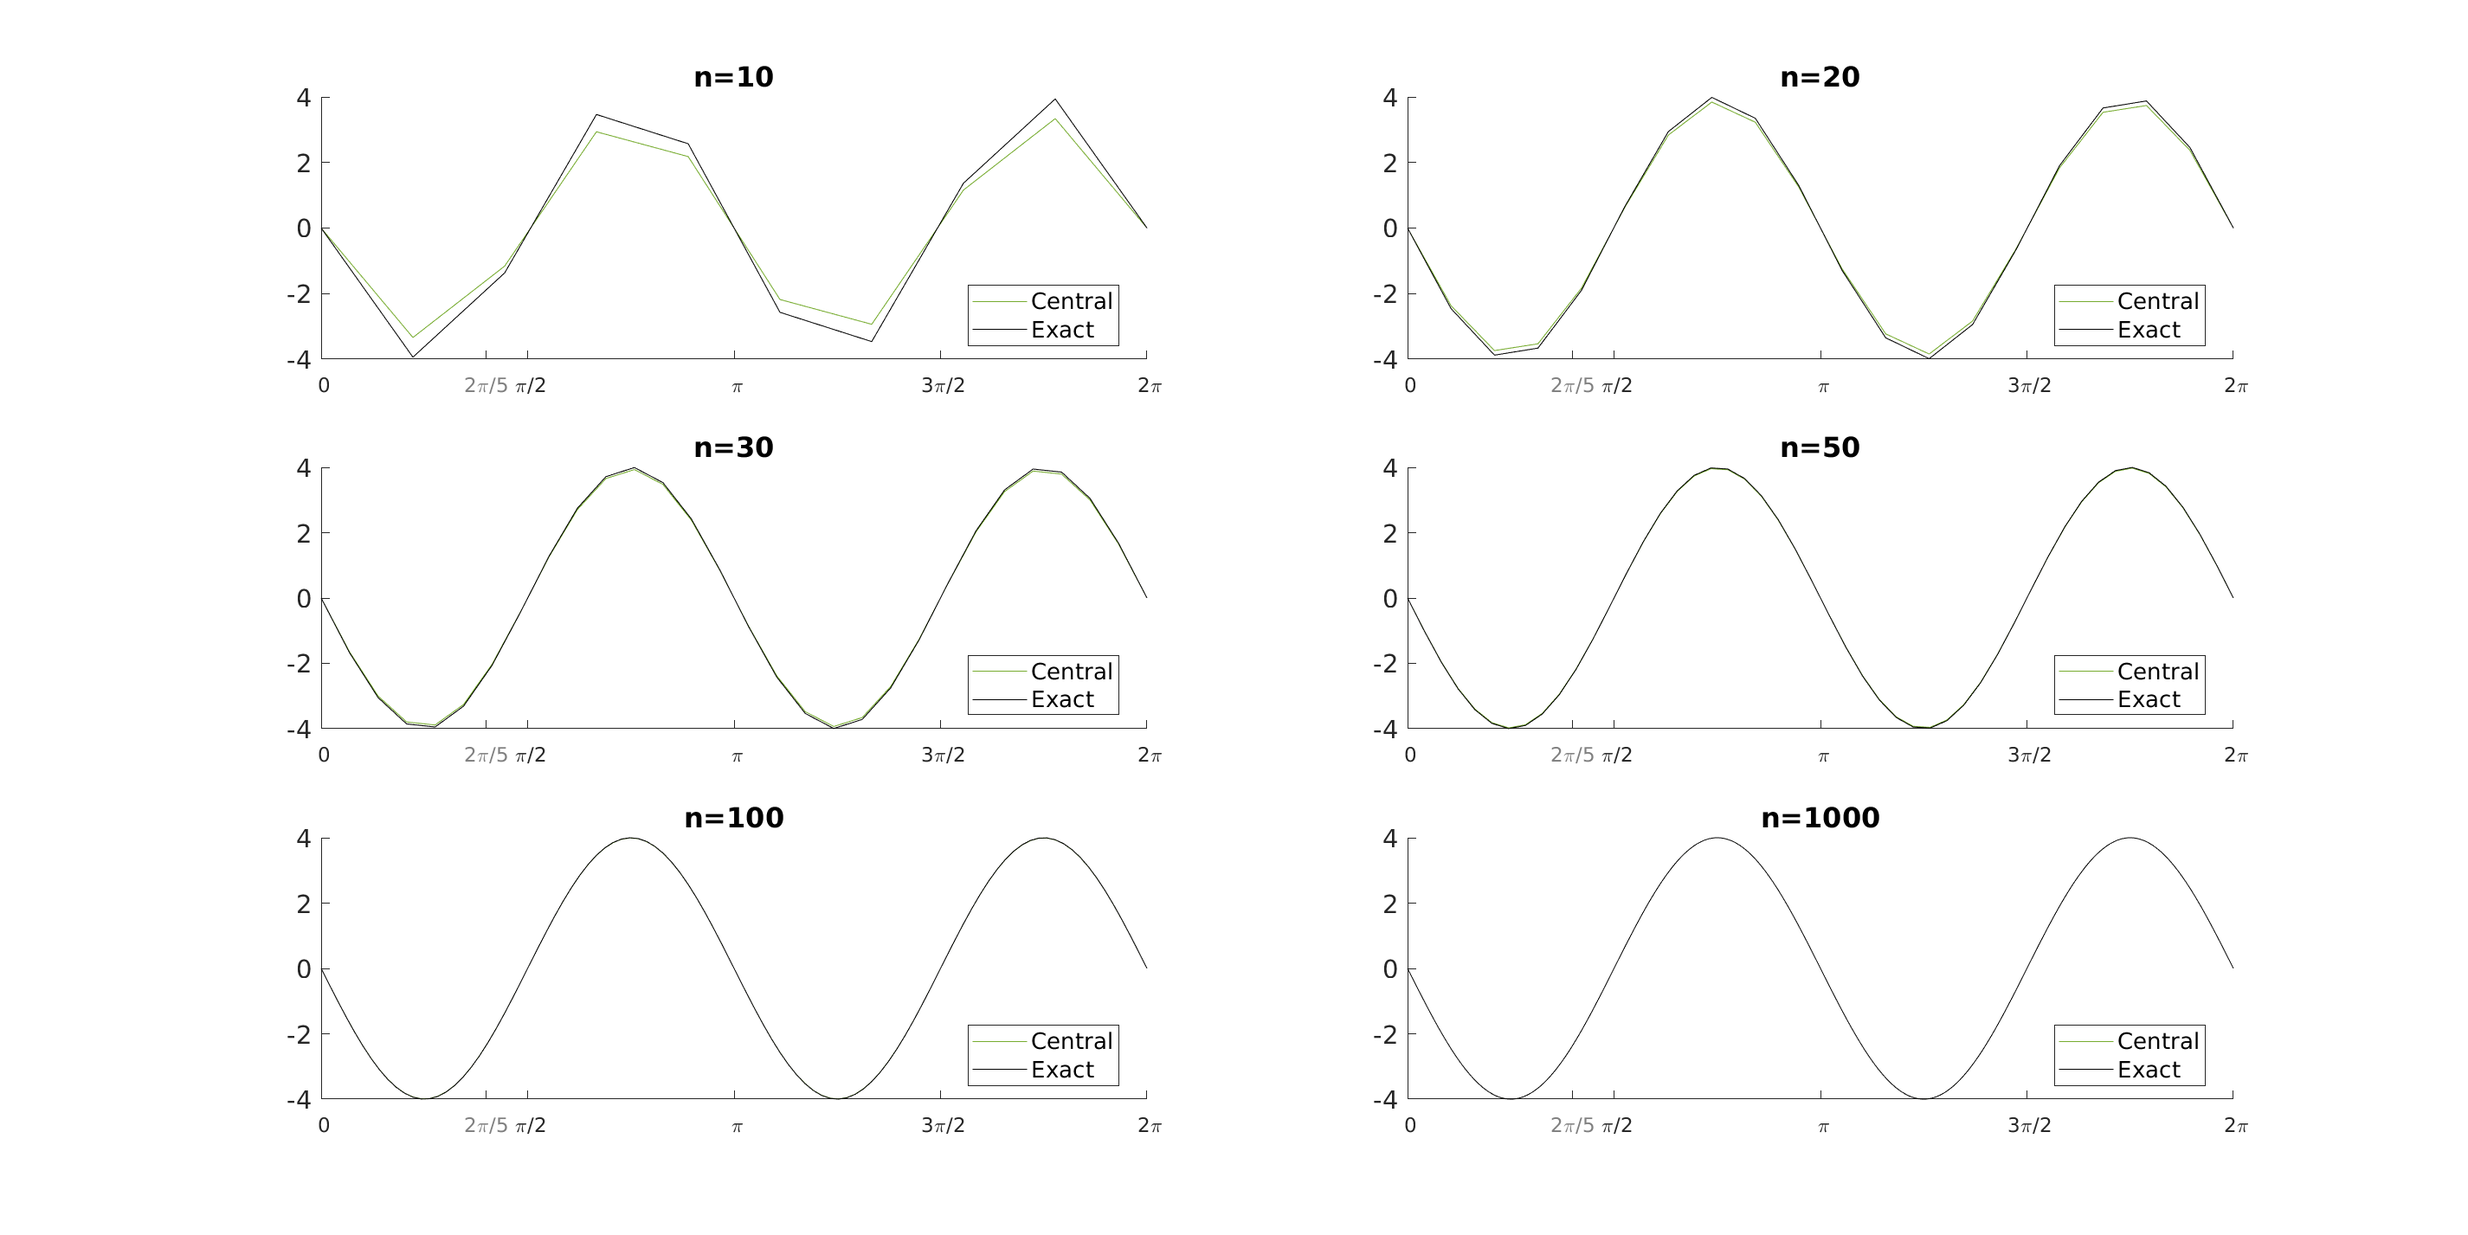
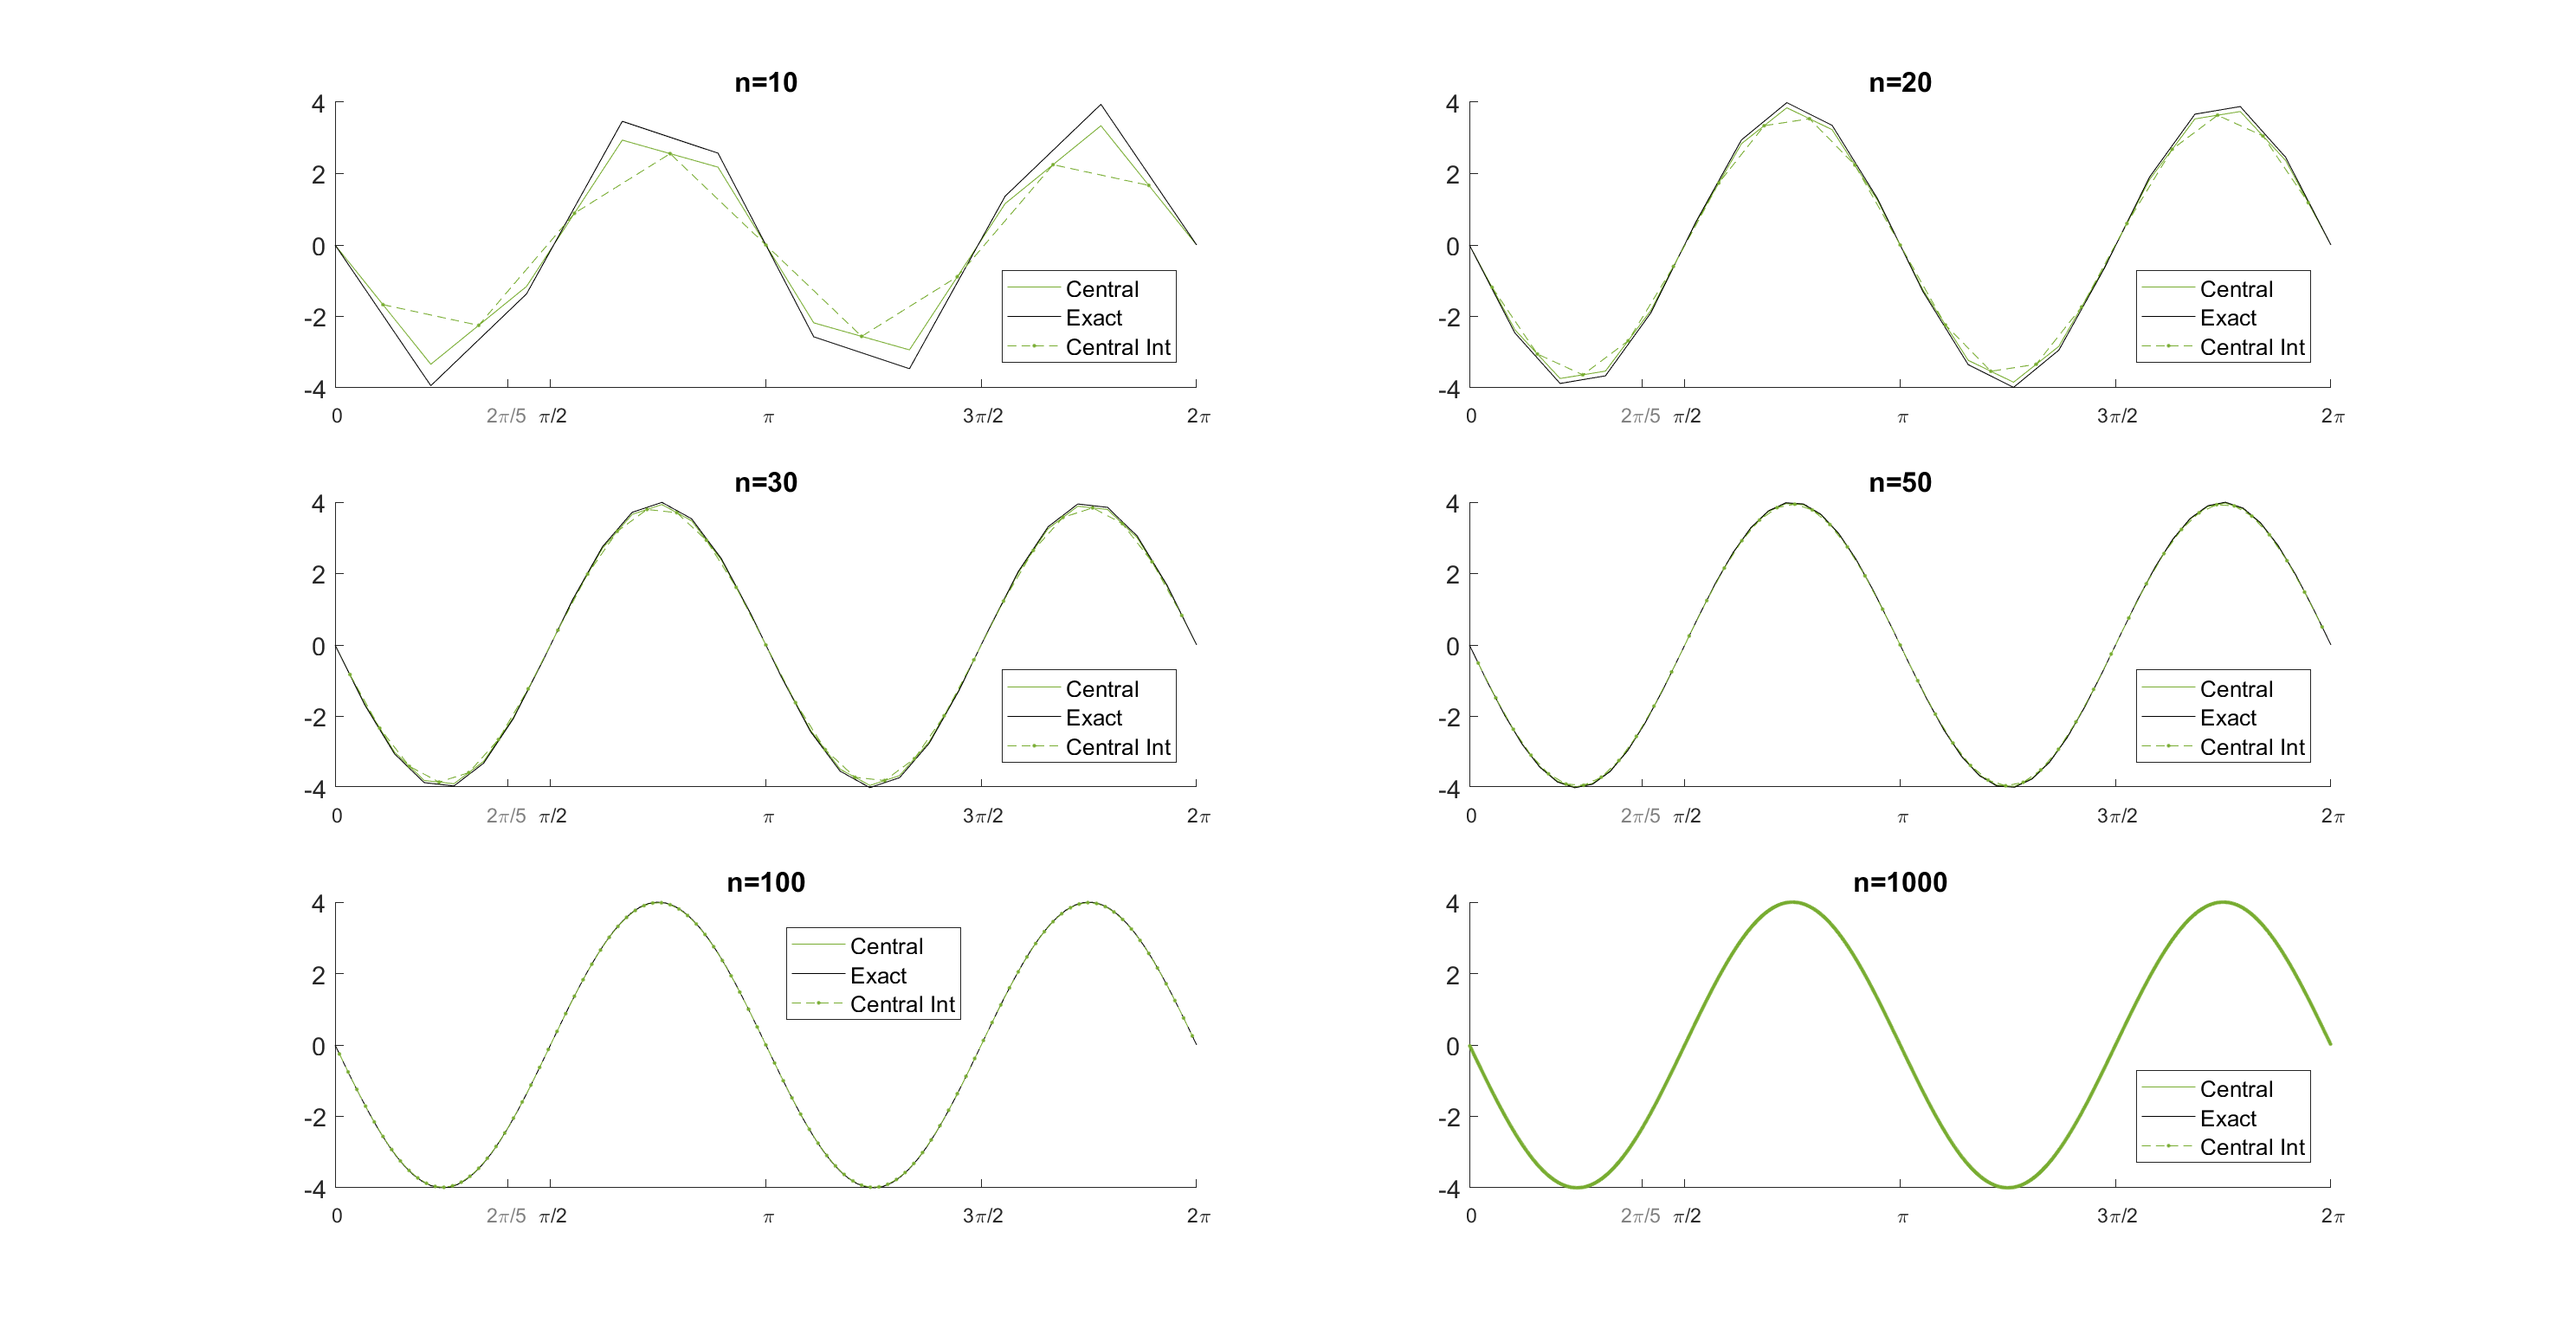
Added Plot for Interpolation

diff --git a/one.m b/one.m
@@ -149,6 +149,7 @@ for j = 1:length(grid)
             xticklabels = {'\fontsize{11} 0','\color[rgb]{0.5,0.5,0.5}\fontsize{11}2\pi/5','\fontsize{11} \pi/2','\fontsize{11} \pi','\fontsize{11} 3\pi/2','\fontsize{11} 2\pi'};
         fig_first_derivative = figure('units','normalized','outerposition',[0 0 1 1]);
         fig_second_derivative = figure('units','normalized','outerposition',[0 0 1 1]);
+        fig_first_derivative_int = figure('units','normalized','outerposition',[0 0 1 1]);
 
     end
 
@@ -159,11 +160,10 @@ for j = 1:length(grid)
 %     plot first derivative 
     set(0,'CurrentFigure',fig_first_derivative)
     subplot(3,2,j)
-    plot(x, dfn_U, '-', x, dfn_D, '-', x, dfn_C, '-', x, dfe, '-k') % values of numerical difference scheme
+    plot(x, dfn_U, '-', x, dfe, '-k', x, dfn_D, '-', x, dfn_C, '-') % values of numerical difference scheme
     hold on 
     ax = gca;
     ax.ColorOrderIndex = 1;
-%     plot(xq, dfn_U_interp, '.--', xq, dfn_D_interp, '.--', xq, dfn_C_interp, '.--') % interpolated values
     legend('Upwind','Downwind','Central', 'Exact','Autoupdate','off','Location','best')
     set(gca,'FontSize',14); 
 %     xline(x_error);
@@ -182,13 +182,69 @@ for j = 1:length(grid)
     hold on
     plot(x, dfn_C2, '-', x, dfe2, '-k') % values of numerical difference scheme
     ax.ColorOrderIndex = 5;
-%     plot(xq, dfn_C2_interp, '.--') % interpolated values
-    legend('Central', 'Exact','Autoupdate','off','Location','best')
+    plot(xq, dfn_C2_interp, '.--') % interpolated values
+    legend('Central', 'Exact','Central Int','Autoupdate','off','Location','best')
     set(gca,'FontSize',14); 
     xlim([0,2*pi])
     title(['n=',num2str(n)]);
     set(gca,'XTick',xticks)
     ax.XTickLabel = xticklabels;  
+    hold off
+    
+    if (j>2)            % no need to plot high n (look identical to n = 1000) 
+        continue
+    end
+    
+%     plot first derivative 
+    set(0,'CurrentFigure',fig_first_derivative_int)
+    
+    subplot(3,2,j)
+    hold on
+    
+    ax = gca;
+    ax.ColorOrderIndex = 5;
+    xlim([0,2*pi])
+    title(['n=',num2str(n)]);
+    set(gca,'XTick',xticks)
+    ax.XTickLabel = xticklabels;
+    set(gca,'FontSize',14); 
+    
+    plot(x, dfn_U, '-', x, dfe, '-k',xq, dfn_U_interp, '.--')%, x, dfn_D, '-', x, dfn_C, '-' % values of numerical difference scheme
+    legend('Upwind','Exact','Upwind Int','Location','best')
+    title(['Upwind n=',num2str(n)]);
+    hold off
+    
+    
+    subplot(3,2,j+2)
+
+    hold on
+    ax = gca;
+    ax.ColorOrderIndex = 5;
+    xlim([0,2*pi])
+    set(gca,'XTick',xticks)
+    ax.XTickLabel = xticklabels;
+    set(gca,'FontSize',14); 
+    
+    plot(x, dfn_D, '-', x, dfe, '-k',xq, dfn_D_interp, '.--')
+    legend('Downwind','Downwind Int','Exact','Location','best')
+    title(['Downwind n=',num2str(n)]);
+    hold off
+    
+    subplot(3,2,j+4)
+    hold on
+    ax = gca;
+    ax.ColorOrderIndex = 5;
+    xlim([0,2*pi])
+    title(['n=',num2str(n)]);
+    set(gca,'XTick',xticks)
+    ax.XTickLabel = xticklabels;
+    set(gca,'FontSize',14); 
+    
+    plot(x, dfn_C, '-', x, dfe, '-k',xq, dfn_C_interp, '.--')
+    legend('Central','Exact','Central Int','Location','best')
+    title(['Central n=',num2str(n)]);
+    %xline(x_error);
+    %text(x_error,1,'\leftarrow 2\pi/5')
     
 end
     
@@ -220,3 +276,6 @@ order_of_er_C2 = (log10(error(end,8)) - log10(error(end-1,8))) / (log10(error(en
 print(fig_first_derivative,'-dpng',"Plots_one/First_derivative.png",'-r150');
 print(fig_second_derivative,'-dpng',"Plots_one/Second_derivative.png",'-r150');
 print(fig_error,'-dpng',"Plots_one/Error.png",'-r150');
+print(fig_first_derivative_int,'-dpng',"Plots_one/fig_first_derivative_int.png",'-r150');
+
+
